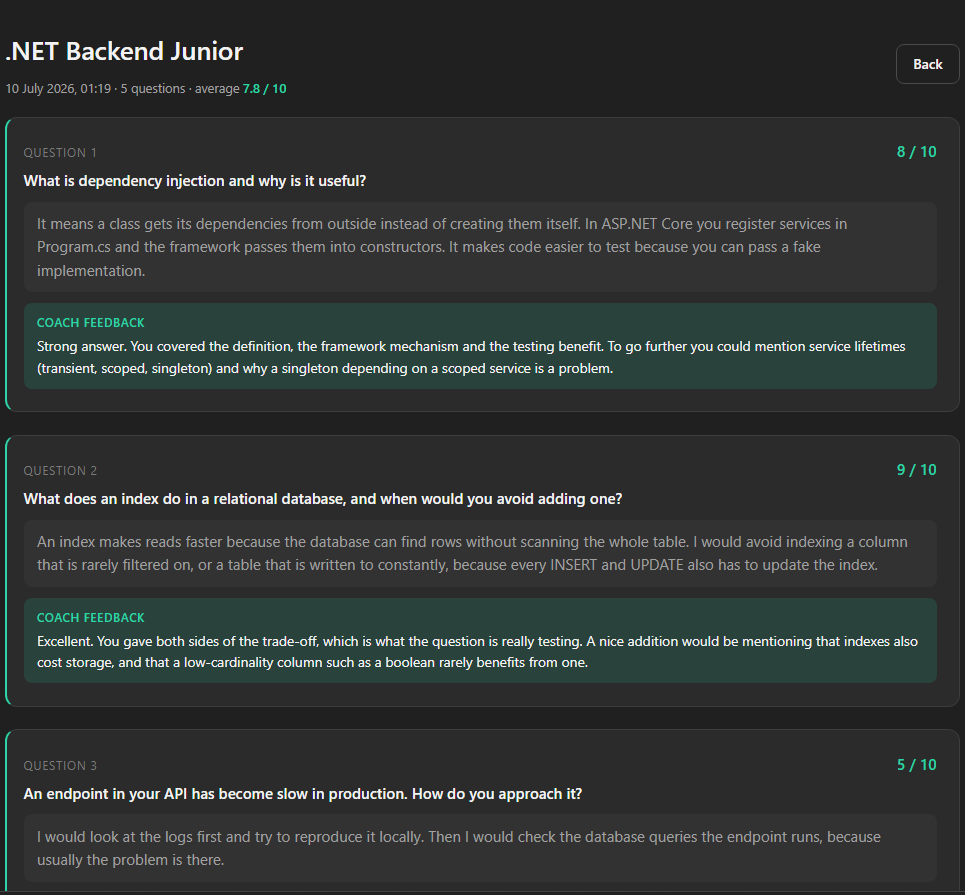
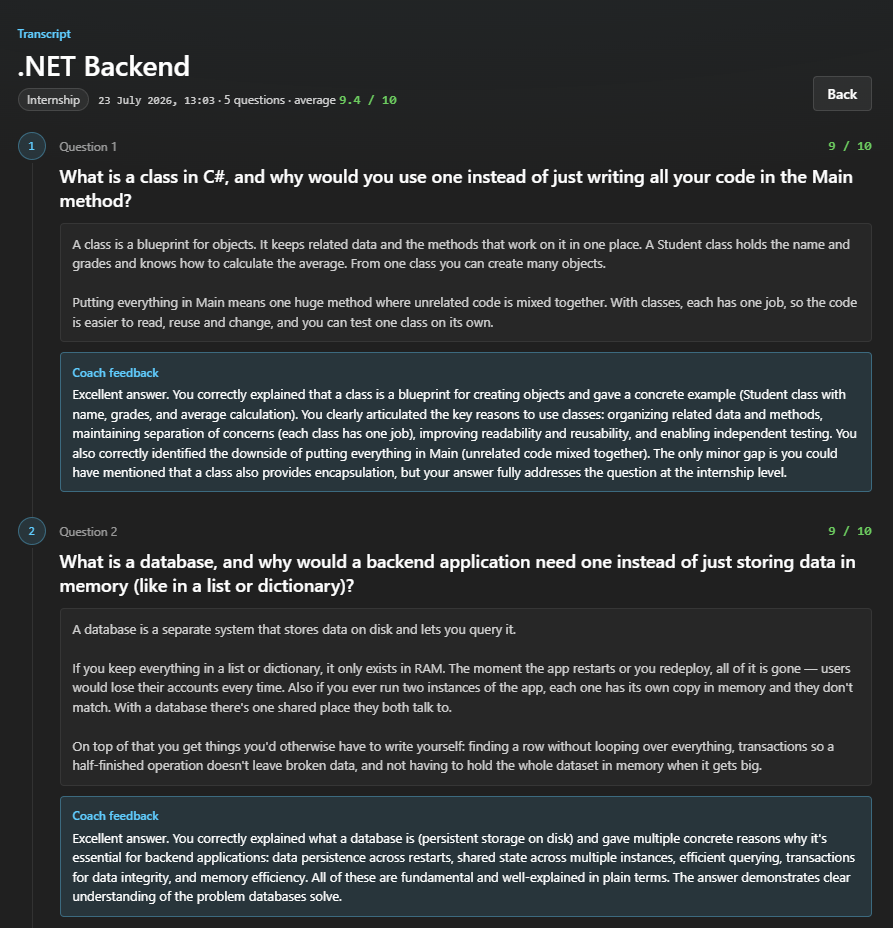
Update README for hosted Claude, difficulty, deployment and new UI

diff --git a/README.md b/README.md
@@ -1,35 +1,20 @@
 # HelpMate Interview Coach
 
-**An AI agent that runs technical interviews.** Pick the role you are preparing for, and it asks
-you questions one at a time, reads your free-text answers, scores them out of ten and explains what
-was missing. Every session is saved so you can watch yourself improve.
+**An AI agent that runs technical interviews.** Pick the role you are preparing for and the level you
+are aiming at, and it asks you questions one at a time, reads your free-text answers, scores them out
+of ten and explains what was missing. Every session is saved so you can watch yourself improve.
 
 ![.NET](https://img.shields.io/badge/.NET-10-512BD4)
 ![ASP.NET Core](https://img.shields.io/badge/ASP.NET%20Core-Web%20API%20%2B%20Blazor-512BD4)
 ![EF Core](https://img.shields.io/badge/EF%20Core-SQLite-blue)
 ![Auth](https://img.shields.io/badge/Auth-Identity%20%2B%20JWT-green)
-![Status](https://img.shields.io/badge/status-work%20in%20progress-orange)
+![Host](https://img.shields.io/badge/hosted%20on-Azure-0078D4)
 
----
+### ▶ [Try the live demo](https://helpmate-interview-coach-g2bgbnaua5cyd5cb.germanywestcentral-01.azurewebsites.net)
 
-## 🚧 Status: work in progress
-
-The application runs end to end today — you can register, run a full AI interview, get scored
-feedback and browse your history. What is not finished is the public deployment.
-
-| | |
-| --- | --- |
-| ✅ **Working** | Domain rules with unit tests · EF Core persistence · Identity + JWT · per-user ownership · role-based admin · the AI agent with tool use · Blazor UI |
-| 🚧 **In progress** | Public deployment with a live demo link |
-| 📋 **Planned** | A hosted-model implementation of `IAiInterviewer` (pending API access), Scalar UI for browsing the API |
-
-The AI agent currently runs against a **local model through [Ollama](https://ollama.com)**, which
-is free to run but means the app has to be started locally to try the live interview. Because the
-AI provider sits behind an interface, swapping in a hosted model is one new file and one line of
-configuration — that is the next piece of work.
-
-**To try it now:** clone it and follow [Running it locally](#running-it-locally). It takes about
-five minutes. The demo account is seeded with two finished interviews you can browse immediately.
+Click **See a sample interview** on the landing page to sign in as a demo account with finished
+interviews you can browse immediately — no sign-up needed. Or create an account and run a real one:
+the coach adapts to any role, at any level from internship to senior.
 
 ---
 
@@ -38,6 +23,10 @@ five minutes. The demo account is seeded with two finished interviews you can br
 **Your history, with scores over time**
 
 ![Dashboard](docs/dashboard.png)
+
+**Running an interview: one question at a time, calibrated to the level you chose**
+
+![Interview](docs/interview.png)
 
 **A finished interview: question, your answer, the coach's verdict**
 
@@ -66,12 +55,25 @@ A business rule becomes feedback that corrects the agent's behaviour. Nothing ab
 trusted: it cannot exceed the question limit, cannot return a score of 47 out of 10, and cannot
 write to a session that is not the caller's.
 
+### One agent, two interchangeable AI providers
+
+The AI provider sits behind a `Core` interface, `IAiInterviewer`, with two implementations: a local
+model through [Ollama](https://ollama.com) for free local development, and the hosted
+[Claude](https://www.anthropic.com/claude) API for the deployed demo. You switch between them with a
+single configuration value — the rest of the application never knows which one is running.
+
+The interesting part is what the two implementations share. All of the logic — the agent loop, the
+prompts, the sequencing, tool execution — lives once in an abstract base class,
+`InterviewerBase<TConversation>`. Each provider implements only four small hooks that translate to
+its own SDK. Adding Claude alongside Ollama was one new file of roughly a hundred lines; not a single
+line of interview logic was duplicated or changed.
+
 ### Authentication and authorisation done properly
 
 ASP.NET Core Identity issues JWTs. Endpoints are protected by default, every read and write is
-scoped to the signed-in user, and the Admin role unlocks a separate set of endpoints. The UI is
-just another client of the same public API — it authenticates with the same token an external
-consumer would use.
+scoped to the signed-in user, and the Admin role unlocks a separate set of endpoints (browse every
+account, delete any session). The UI is just another client of the same public API — it authenticates
+with the same token an external consumer would use.
 
 ---
 
@@ -80,10 +82,10 @@ consumer would use.
 Four projects, a monolith, with dependencies pointing inwards.
 
 ```
-Api             Controllers, Blazor UI, composition root
-Infrastructure  EF Core, Identity, the AI agent          →  Core
-Core            Entities, business rules, interfaces     →  (nothing)
-Tests           Unit tests                               →  Core
+Api             Controllers, Blazor UI, composition root  →  Core, Infrastructure
+Infrastructure  EF Core, Identity, the AI agent           →  Core
+Core            Entities, business rules, interfaces       →  (nothing)
+Tests           Unit tests                                 →  Core
 ```
 
 `Core` references no other project and no infrastructure package. It owns the entities, the
@@ -106,7 +108,7 @@ Some consequences worth pointing out:
 ## How a session works
 
 ```
-POST /api/sessions               create a session for a target role
+POST /api/sessions               create a session for a target role and difficulty
 POST /api/sessions/{id}/advance  the agent asks the next question, or scores the last answer
 POST /api/sessions/{id}/answers  submit an answer
 GET  /api/sessions               your history
@@ -121,6 +123,11 @@ Sequencing (evaluate the pending answer → ask the next question → finish) is
 rather than left to the model, because small local models get it wrong. The model still owns the
 parts that need judgement: what to ask, and how good an answer is.
 
+**Difficulty calibrates both the questions and the marking.** The chosen level (internship, junior,
+mid, senior) is stored on the session and fed into the prompt on every step, so the agent asks
+level-appropriate questions and scores relative to that level — a strong internship answer scores
+high instead of being judged against senior expectations.
+
 ---
 
 ## Security decisions
@@ -132,46 +139,43 @@ parts that need judgement: what to ask, and how good an answer is.
   enumerate which session ids are real.
 - **Failed logins do not say which half was wrong**, for the same reason.
 - **Scores from the model are validated server-side.**
-- **Two caps bound AI spend:** five questions per session, three sessions per user per day.
-- **No secret is in `appsettings.json`.** The JWT signing key and the seeded account passwords come
-  from user secrets in development and environment variables in production. Seeding is skipped
-  entirely when credentials are not configured, so no environment silently gets a known password.
+- **Two caps bound AI spend:** five questions per session, three sessions per user per day — and on
+  the public demo, a hard monthly spend limit in the Anthropic Console on top of those.
+- **No secret is in `appsettings.json`.** The JWT signing key, the Anthropic API key and the seeded
+  account passwords come from user secrets in development and environment variables in production.
+  Seeding is skipped entirely when credentials are not configured, so no environment silently gets a
+  known password.
 
 ---
 
 ## Running it locally
 
-Requires the [.NET 10 SDK](https://dotnet.microsoft.com/download) and
-[Ollama](https://ollama.com) for the AI agent.
+Requires the [.NET 10 SDK](https://dotnet.microsoft.com/download). The AI provider is your choice:
+
+- **Claude** (hosted) — needs an [Anthropic API key](https://console.anthropic.com). Nothing to install.
+- **Ollama** (local) — free, but needs [Ollama](https://ollama.com) and a model pulled locally.
 
 ```bash
-# 1. AI model (about 4.7 GB)
-ollama pull qwen2.5:7b
-
-# 2. Secrets
+# 1. Secrets (from the Api project)
 cd HelpMate.InterviewCoach.Api
 dotnet user-secrets set "Jwt:Key" "<any long random string>"
 dotnet user-secrets set "Admin:Email" "[email redacted]"
 dotnet user-secrets set "Admin:Password" "Admin123!"
 dotnet user-secrets set "Demo:Email" "[email redacted]"
 dotnet user-secrets set "Demo:Password" "Demo123!"
+# For the Claude provider:
+dotnet user-secrets set "Anthropic:ApiKey" "sk-ant-..."
 cd ..
 
-# 3. Database
-dotnet ef database update \
-  --project HelpMate.InterviewCoach.Infrastructure \
-  --startup-project HelpMate.InterviewCoach.Api
+# 2. Pick the provider in appsettings.Development.json:  "Ai": { "Provider": "Claude" }   (or "Ollama")
+#    For Ollama, also pull the model:  ollama pull qwen2.5:7b
 
-# 4. Run
+# 3. Run  (the database is created and migrated automatically on first start)
 dotnet run --project HelpMate.InterviewCoach.Api --launch-profile https
 ```
 
 Open <https://localhost:7163>. Roles, the admin account and the demo interviews are seeded on first
 start.
-
-**Fastest way to see what it does:** click *See a sample interview* on the landing page. It signs
-you in as the demo account, which already holds two finished interviews with real questions,
-answers and feedback.
 
 ```bash
 dotnet test    # unit tests for the interview rules
@@ -183,22 +187,44 @@ dotnet test    # unit tests for the interview rules
 
 | Key | Where | Notes |
 | --- | --- | --- |
+| `Ai:Provider` | `appsettings*.json` | `Ollama` or `Claude`. The single switch between AI backends. |
 | `Jwt:Key` | secret | Signing key. Anyone holding it can mint valid tokens. |
 | `Jwt:Issuer`, `Jwt:Audience`, `Jwt:ExpiryMinutes` | `appsettings.json` | Not secret. |
-| `Ollama:Endpoint`, `Ollama:Model` | `appsettings.json` | Swap the model without touching code. |
+| `Anthropic:ApiKey` | secret | Required when the provider is `Claude`. |
+| `Anthropic:Model` | `appsettings.json` | e.g. `claude-haiku-4-5`. Swap the model without touching code. |
+| `Ollama:Endpoint`, `Ollama:Model` | `appsettings.json` | Used when the provider is `Ollama`. |
 | `Admin:*`, `Demo:*` | secret | Seeding is skipped when unset. |
-| `ConnectionStrings:DefaultConnection` | `appsettings.json` | SQLite in development. |
+| `ConnectionStrings:DefaultConnection` | `appsettings.json` | SQLite. |
+
+In Azure the same keys are environment variables with `__` instead of `:` (`Ai__Provider`,
+`Anthropic__ApiKey`, …).
+
+---
+
+## Deployment
+
+Hosted on **Azure App Service** (Linux), published from Visual Studio. Migrations run on startup, so
+the server needs no manual database step. SQLite lives on the persistent `/home` volume; the rest of
+the container's filesystem is reset on redeploy. The live demo runs on the Claude provider, since a
+local model cannot run on free cloud hosting.
 
 ---
 
 ## Notes and trade-offs
 
-**SQLite in development, SQL Server as the production target.** Provider-specific code is confined
-to one `UseSqlite` call and one package reference.
+**SQLite, with SQL Server / Postgres as the production target.** Provider-specific code is confined
+to one `UseSqlite` call and one package reference. Under real load SQLite on a network share would be
+the first thing to swap — and because persistence sits behind `IInterviewRepository`, that is a
+connection string and a one-line change.
 
-**The AI provider is swappable.** `IAiInterviewer` is a `Core` interface and `OllamaInterviewer` is
-one implementation. Running a small model locally costs nothing while developing, at the price of
-shallower feedback than a frontier model would give.
+**The AI provider is swappable, and both providers are real.** Running a small model locally costs
+nothing while developing; the hosted model gives the deployed demo fast, well-calibrated feedback.
+The shared `InterviewerBase` means neither implementation carries any interview logic of its own.
+
+**Token cost is deliberately kept low.** The per-step prompt resent to the model omits the full text
+of previous answers — the agent only needs the questions already asked to avoid repeating itself, and
+the answer under evaluation is included separately where it is actually needed. Combined with a small
+hosted model, a full interview costs a couple of cents.
 
 **Exceptions carry messages written for the model.** A rejected tool call returns its message to
 the agent as the tool result. The cost is that a debugger stops on expected control flow; that is a
@@ -212,13 +238,15 @@ A generic repository over EF Core adds a layer without adding meaning, and usual
 
 ## Roadmap
 
-- [ ] Deploy with a public demo link
-- [ ] Hosted-model implementation of `IAiInterviewer` so the live demo can run interviews
+- [x] Hosted-model implementation of `IAiInterviewer` so the live demo can run interviews
+- [x] Difficulty levels that calibrate questions and scoring
+- [x] Deploy with a public demo link
+- [ ] CI/CD with GitHub Actions
 - [ ] Scalar UI for browsing the API in the browser
 - [ ] Integration tests against an in-memory database
 
 ---
 
-Built as a portfolio project. The two skills it is meant to show are **authentication and
-authorisation** and **AI agent integration with tool use** — everything else is there to give those
-two somewhere real to live.
+Built as a portfolio project. The three skills it is meant to show are **authentication and
+authorisation**, **AI agent integration with tool use**, and **a clean, provider-swappable
+architecture** — everything else is there to give those somewhere real to live.